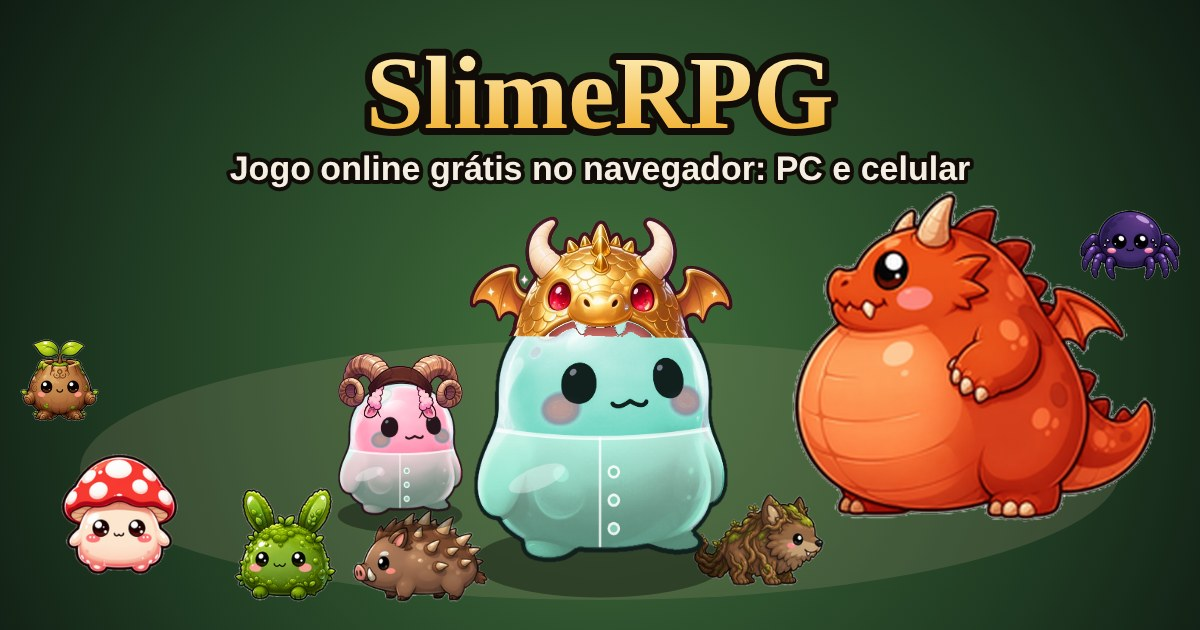
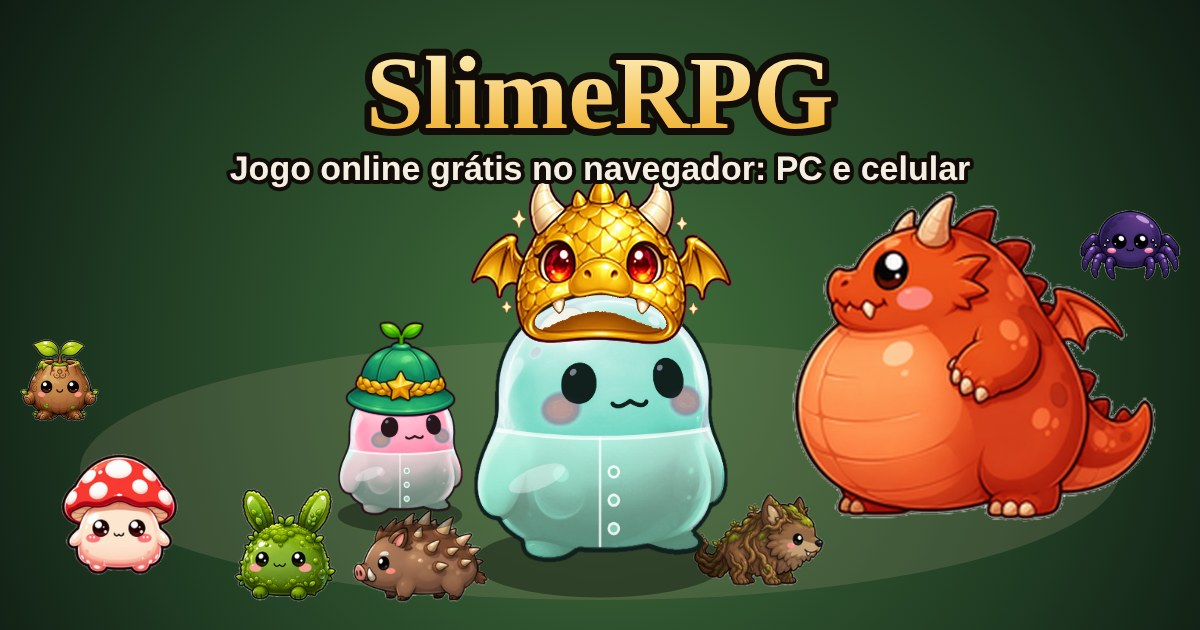
Chapéus refeitos no Canva: dragão, dragão dourado, coroa da amizade e pioneiro
Claude-Session: https://claude.ai/code/session_01DKKp53mRpfSmByEjWBWWuc

Changed region(s): [[0.37, 0.2714, 0.6167, 0.573], [0.2775, 0.5127, 0.4008, 0.6635]]

diff --git a/public/art.js b/public/art.js
@@ -449,8 +449,8 @@
     mago:       { w: 0.84, ay: 0.88, lift: 0.105, tilt: -0.04 },
     pirata:     { w: 0.82, ay: 0.74, lift: 0.115, tilt: 0 },
     carneiro:   { w: 0.96, ay: 0.6, lift: 0.075, tilt: 0 },
-    dragao:     { w: 1.0, ay: 0.82, lift: 0.08, tilt: 0 },
-    dragao_ouro: { w: 1.0, ay: 0.82, lift: 0.08, tilt: 0 },
+    dragao:     { w: 1.0, ay: 0.86, lift: 0.1, tilt: 0 },
+    dragao_ouro: { w: 1.0, ay: 0.86, lift: 0.1, tilt: 0 },
     amigo:      { w: 0.88, ay: 0.72, lift: 0.1, tilt: 0 },
     pioneiro:   { w: 0.86, ay: 0.78, lift: 0.1, tilt: 0 }
   };
